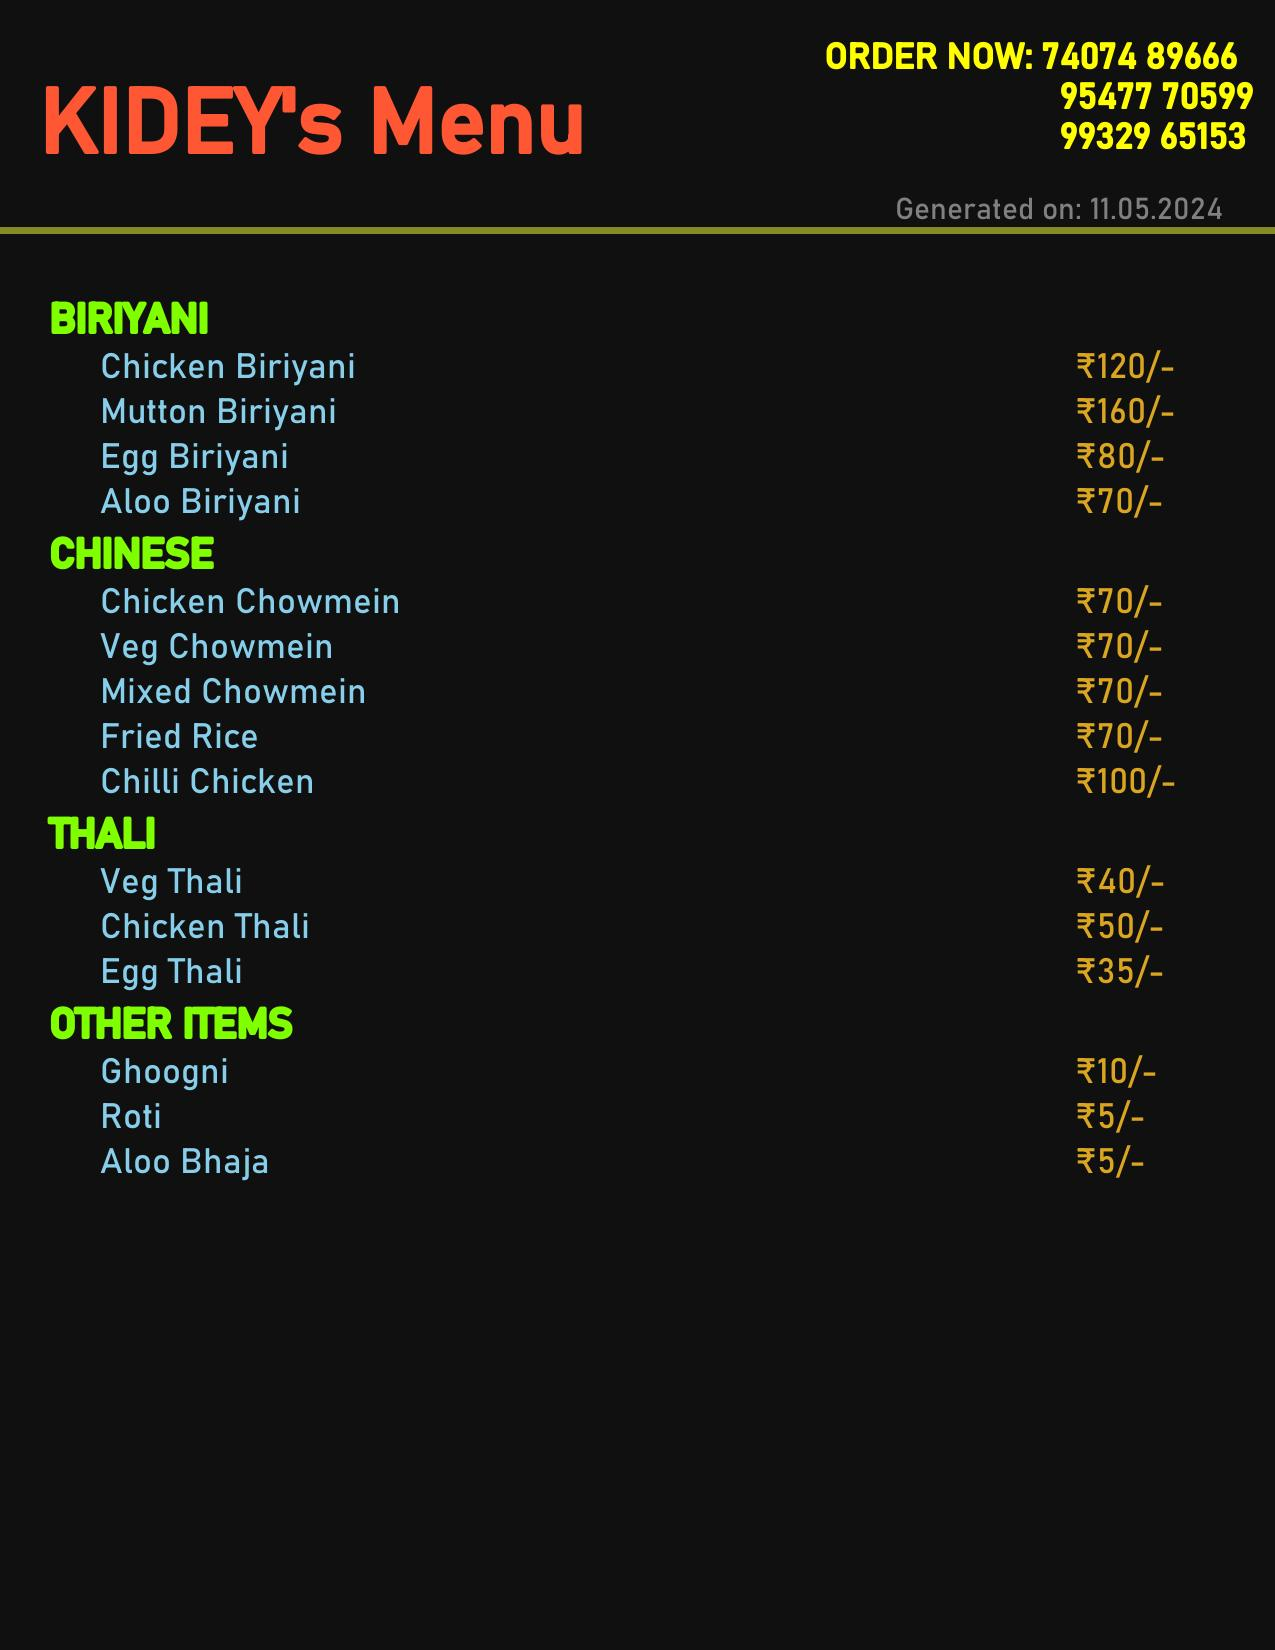
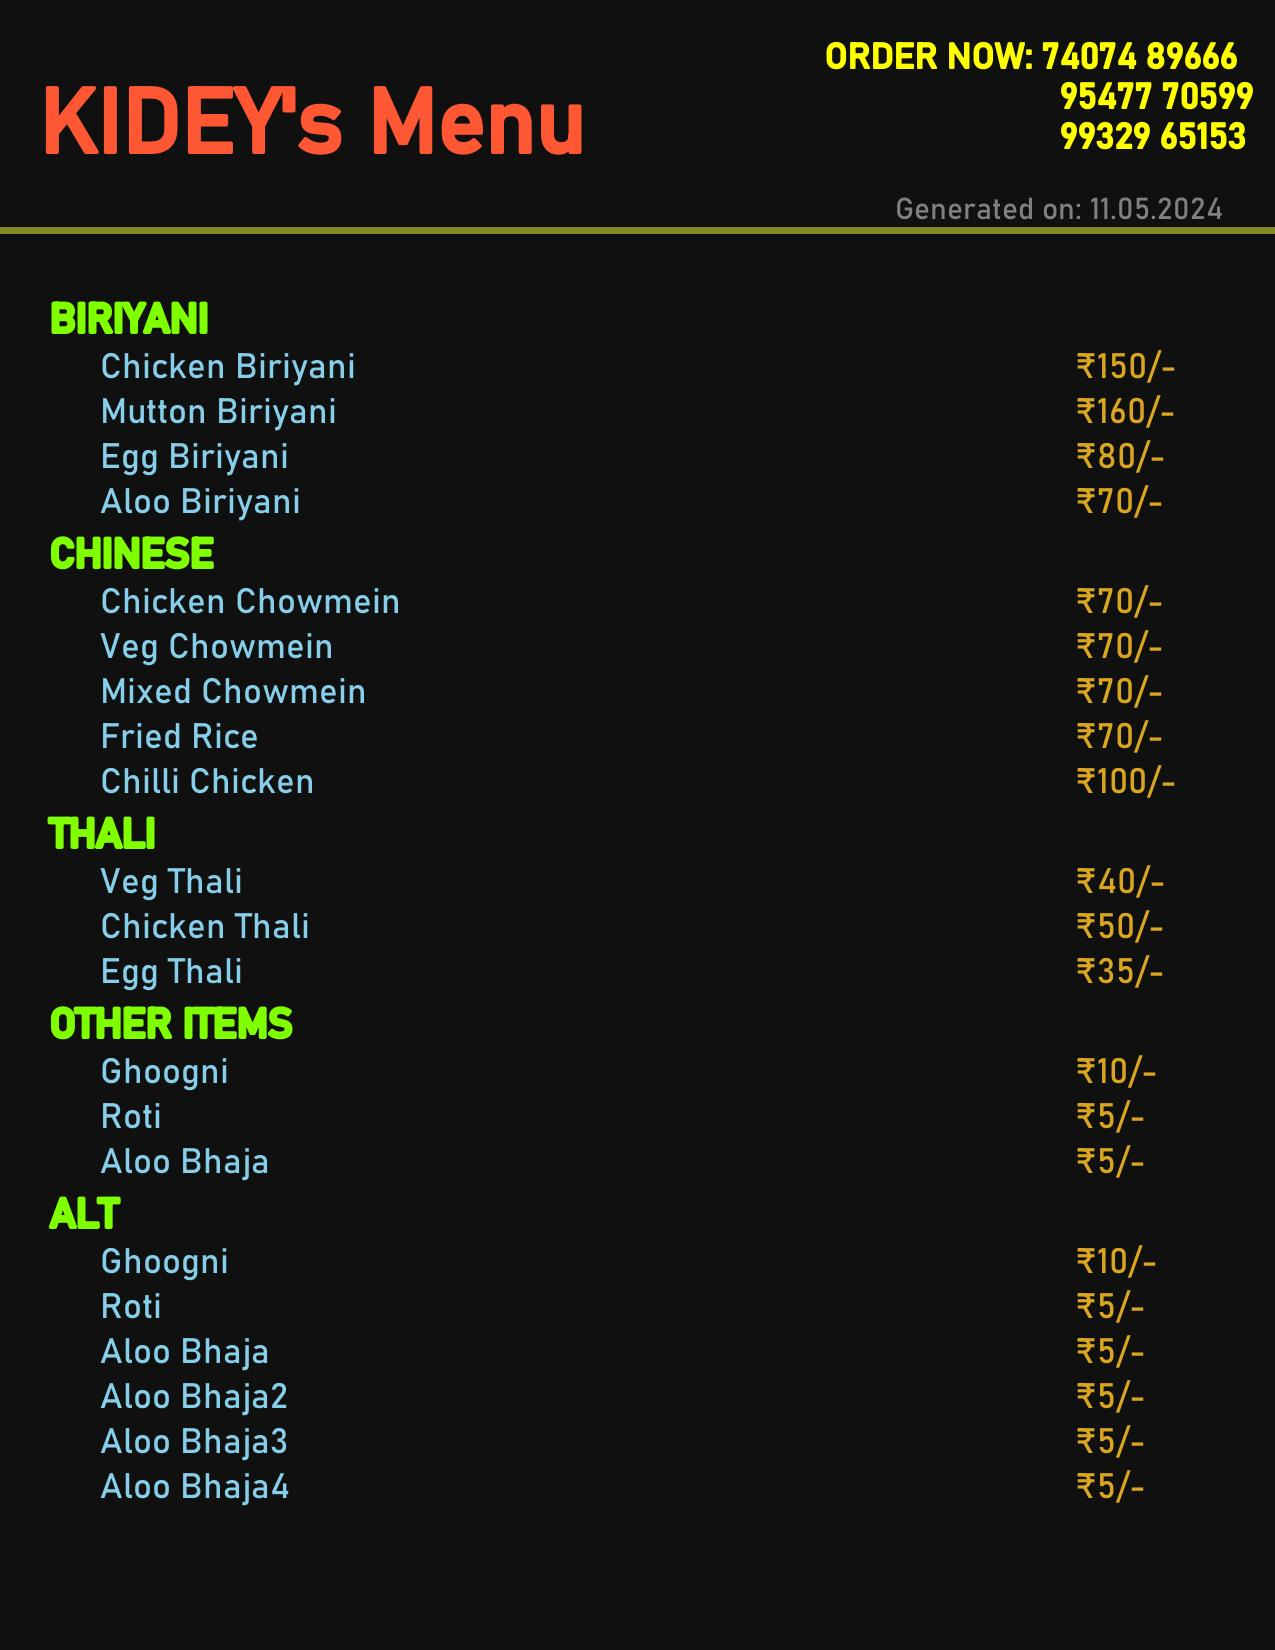
wrapping menucardcreator in a class

Changed region(s): [[0.0306, 0.7109, 0.2447, 0.9273], [0.8259, 0.7418, 0.9176, 0.9273], [0.8565, 0.2164, 0.9176, 0.2473]]

diff --git a/trs.py b/trs.py
@@ -1,13 +1,205 @@
 from PIL import Image, ImageDraw, ImageFont
+from datetime import datetime
+import os
+import platform
 
-font_prefix = "C:\Windows\Fonts\\"
+from subtle_defs import *
 
-def doshit(id, *args, **kwargs):
-    # print(id)
-    # print(type(args), args)
-    # print(type(kwargs), kwargs)
+MENU = {
+     "BIRIYANI": {
+         "Chicken Biriyani": 150,
+         "Mutton Biriyani": 160,
+         "Egg Biriyani": 80,
+         "Aloo Biriyani": 70,
+     },
+     "CHINESE":{
+         "Chicken Chowmein": 70,
+         "Veg Chowmein": 70,
+         "Mixed Chowmein": 70,
+         "Fried Rice": 70,
+         "Chilli Chicken": 100,
+     },
+     "THALI":{
+         "Veg Thali": 40,
+         "Chicken Thali": 50,
+         "Egg Thali": 35,
+     },
+     "NONE":{
+         "Ghoogni": 10,
+         "Roti": 5,
+         "Aloo Bhaja": 5,
+     },
+     "ALT":{
+         "Ghoogni": 10,
+         "Roti": 5,
+         "Aloo Bhaja": 5,
+         "Aloo Bhaja2": 5,
+         "Aloo Bhaja3": 5,
+         "Aloo Bhaja4": 5,
+         "Aloo Bhaja5": 5,
+         "Aloo Bhaja7": 5,
+         "Aloo Bhaja4": 5,
+         "Aloo Bhaja4sdg": 5,
+         "Aloo Bhaja4sdgag": 5,
+         "Aloo Bhaja4sdgagfw": 5,
+         "Aloo Bhaja4sdgagfwa": 5,
+         "Aloo Bhaja4sdgagfwaa": 5,
+         "Aloo B": 5,
+         "Aloo Bs": 5,
+         "Aloo B": 5,
+         "Aloo Bgg": 5,
+         "Aloo Beg": 5,
+         "Aloo Bsd": 5,
+         "END": 500,
+     }
+}
 
-    category_font = ImageFont.truetype(f"C:\Windows\Fonts\BRLNSDB.TTF", 20)
-    product_font = ImageFont.truetype(f"C:\Windows\Fonts\BRLNSDB.TTF", 15)
 
-doshit(1, True, somestuff=False)
+current_os = platform.system()
+printC(current_os)
+if current_os == "Windows":
+    font_prefix = "C:\Windows\Fonts\\"
+else:
+    font_prefix = "/usr/share/fonts/truetype/freefont/"
+
+FREE_SANS = ...
+BRITANIC = f"{font_prefix}BRITANIC.ttf"
+BERLIN_SANS_FB_demibold = "C:\Windows\Fonts\BRLNSDB.TTF"
+BAHNSCHRIFT_regular = "C:\Windows\Fonts\\bahnschrift.ttf"
+
+
+
+
+
+# def draw_heading(draw):
+#     #  HEADING SPACE TILL Y = 300
+
+
+#     font = ImageFont.truetype(BASE_FONT, 90)
+    
+#     # font = ImageFont.truetype(f"{font_prefix}FreeSans.ttf", 90)
+#     draw.text((40, 80), "KIDEY's Menu", font=font, fill=(255, 87, 51), stroke_fill=(255, 87, 51), stroke_width=2)
+
+#     font = ImageFont.truetype(BASE_FONT, 30)
+#     # font = ImageFont.truetype(f"{font_prefix}FreeSans.ttf", 30)
+#     todays_date = (datetime.today().strftime("%d.%m.%Y"))
+#     draw.text((PAGE_WIDTH-380, 195), f"Generated on: {todays_date}", font=font, fill="grey", stroke_fill=(218, 165, 32), stroke_width=0)
+#     font = ImageFont.truetype(BASE_FONT, 35)
+#     # font = ImageFont.truetype(f"{font_prefix}FreeSans.ttf", 35)
+#     draw.text((PAGE_WIDTH-450, 40), "ORDER NOW: 74074 89666", font=font, fill="yellow", stroke_fill="yellow", stroke_width=1)
+#     draw.text((PAGE_WIDTH-215, 80), "95477 70599", font=font, fill="yellow", stroke_fill="yellow", stroke_width=1)
+#     draw.text((PAGE_WIDTH-215, 120), "99329 65153", font=font, fill="yellow", stroke_fill="yellow", stroke_width=1)
+
+#     draw.line([(0, 230), (PAGE_WIDTH, 230)], fill =(133, 138, 36), width = 7)
+
+#     #  HEADING DONE
+
+#     return draw
+
+
+
+# def generateMenuCard(MENU, path):
+
+#     draw = create_page()
+    
+#     category_font = ImageFont.truetype(BASE_FONT, CATEGORY_HEIGHT)
+#     product_font = ImageFont.truetype(BASE_FONT, PRODUCT_HEIGHT)
+
+#     page_count = 1
+
+#     for category in MENU:
+#         #  WRITE CATEGORY
+#         if category == "NONE":
+#             draw.text((50, YCURSOR), "OTHER ITEMS", font=category_font, fill=(127, 255, 0), stroke_fill=(127, 255, 0), stroke_width=2)
+#         else:
+#             draw.text((50, YCURSOR), category, font=category_font, fill=(127, 255, 0), stroke_fill=(127, 255, 0), stroke_width=2)
+
+#         YCURSOR += CATEGORY_HEIGHT + 10
+
+#         PRODUCTS = MENU[category]
+#         for product in PRODUCTS:
+#             draw.text((100, YCURSOR), product, font=product_font, fill=(135, 206, 235), stroke_fill=(135, 206, 235), stroke_width=0)
+#             draw.text((PAGE_WIDTH-200, YCURSOR), '₹'+str(PRODUCTS[product])+'/-', font=product_font, fill=(218, 165, 32), stroke_fill=(218, 165, 32), stroke_width=0)
+            
+
+#             YCURSOR += PRODUCT_HEIGHT + 10
+        
+#             if YCURSOR >= PAGE_HEIGHT - 0.1 * PAGE_HEIGHT:
+#                 print("NEXT PAGE")
+#                 break
+        
+#         YCURSOR += 5
+
+
+
+#     savename = f"menucard.jpg"
+#     savedir = os.path.join(path, savename)
+#     img.save(savedir)
+
+#     print("SAVED!")
+#     return savedir
+
+# generateMenuCard(MENU, '.')
+
+
+
+class MenuCardCreator():
+    def __init__(self) -> None:
+        
+        self.BASE_FONT = BAHNSCHRIFT_regular
+        self.PAGE_WIDTH = 1275
+        self.PAGE_HEIGHT = 1650
+        self.YCURSOR = 300
+        self.CATEGORY_HEIGHT = 40
+        self.PRODUCT_HEIGHT = 35
+
+        self.page_count = 1
+        self.path = None
+        
+        self.img = None
+        self.draw = None
+
+    def generate_menu_card(self, MENU: dict, path: str = '.'):
+        self.path = path
+
+        self.create_page()
+        self.save_img()
+
+
+
+
+    # Breakout Functions ---------------------------------------------------
+    def create_page(self):
+        self.img = Image.new('RGB', (self.PAGE_WIDTH, self.PAGE_HEIGHT), color=(16, 16, 16))
+        self.draw = ImageDraw.Draw(self.img)
+
+        self.draw = self.draw_heading()
+        
+    def draw_heading(self):
+        font = ImageFont.truetype(self.BASE_FONT, 90)
+
+        self.draw.text((40, 80), "KIDEY's Menu", font=font, fill=(255, 87, 51), stroke_fill=(255, 87, 51), stroke_width=2)
+
+        font = ImageFont.truetype(self.BASE_FONT, 30)
+        todays_date = (datetime.today().strftime("%d.%m.%Y"))
+        self.draw.text((self.PAGE_WIDTH-380, 195), f"Generated on: {todays_date}", font=font, fill="grey", stroke_fill=(218, 165, 32), stroke_width=0)
+        font = ImageFont.truetype(self.BASE_FONT, 35)
+        self.draw.text((self.PAGE_WIDTH-450, 40), "ORDER NOW: 74074 89666", font=font, fill="yellow", stroke_fill="yellow", stroke_width=1)
+        self.draw.text((self.PAGE_WIDTH-215, 80), "95477 70599", font=font, fill="yellow", stroke_fill="yellow", stroke_width=1)
+        self.draw.text((self.PAGE_WIDTH-215, 120), "99329 65153", font=font, fill="yellow", stroke_fill="yellow", stroke_width=1)
+
+        self.draw.line([(0, 230), (self.PAGE_WIDTH, 230)], fill =(133, 138, 36), width = 7)
+
+    def new_page(self):
+        pass
+    
+    def save_img(self):
+        savename = f"menucard_{self.page_count}.jpg"
+        savedir = os.path.join(self.path, savename)
+        self.img.save(savedir)
+
+        print("SAVED!")
+
+
+m = MenuCardCreator()
+m.generate_menu_card(MENU)

diff --git a/menucard_creator.py b/menucard_creator.py
@@ -4,7 +4,7 @@ import os
 import platform
 
 from subtle_defs import *
-'''
+
 MENU = {
      "BIRIYANI": {
          "Chicken Biriyani": 120,
@@ -28,8 +28,30 @@ MENU = {
          "Ghoogni": 10,
          "Roti": 5,
          "Aloo Bhaja": 5,
+     },
+     "ALT":{
+         "Ghoogni": 10,
+         "Roti": 5,
+         "Aloo Bhaja": 5,
+         "Aloo Bhaja2": 5,
+         "Aloo Bhaja3": 5,
+         "Aloo Bhaja4": 5,
+         "Aloo Bhaja5": 5,
+         "Aloo Bhaja7": 5,
+         "Aloo Bhaja4": 5,
+         "Aloo Bhaja4sdg": 5,
+         "Aloo Bhaja4sdgag": 5,
+         "Aloo Bhaja4sdgagfw": 5,
+         "Aloo Bhaja4sdgagfwa": 5,
+         "Aloo Bhaja4sdgagfwaa": 5,
+         "Aloo B": 5,
+         "Aloo Bs": 5,
+         "Aloo B": 5,
+         "Aloo Bgg": 5,
+         "Aloo Beg": 5,
+         "Aloo Bsd": 5,
      }
-}'''
+}
 
 
 current_os = platform.system()
@@ -115,3 +137,5 @@ def generateMenuCard(MENU, path):
 
     print("SAVED!")
     return savedir
+
+generateMenuCard(MENU, '.')
